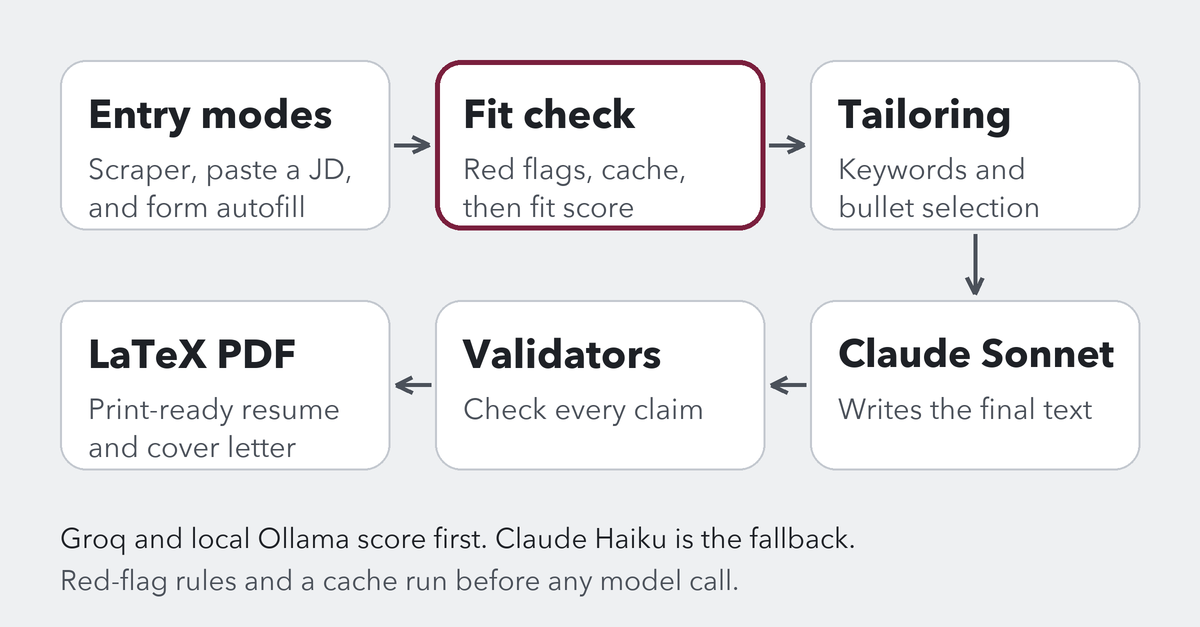
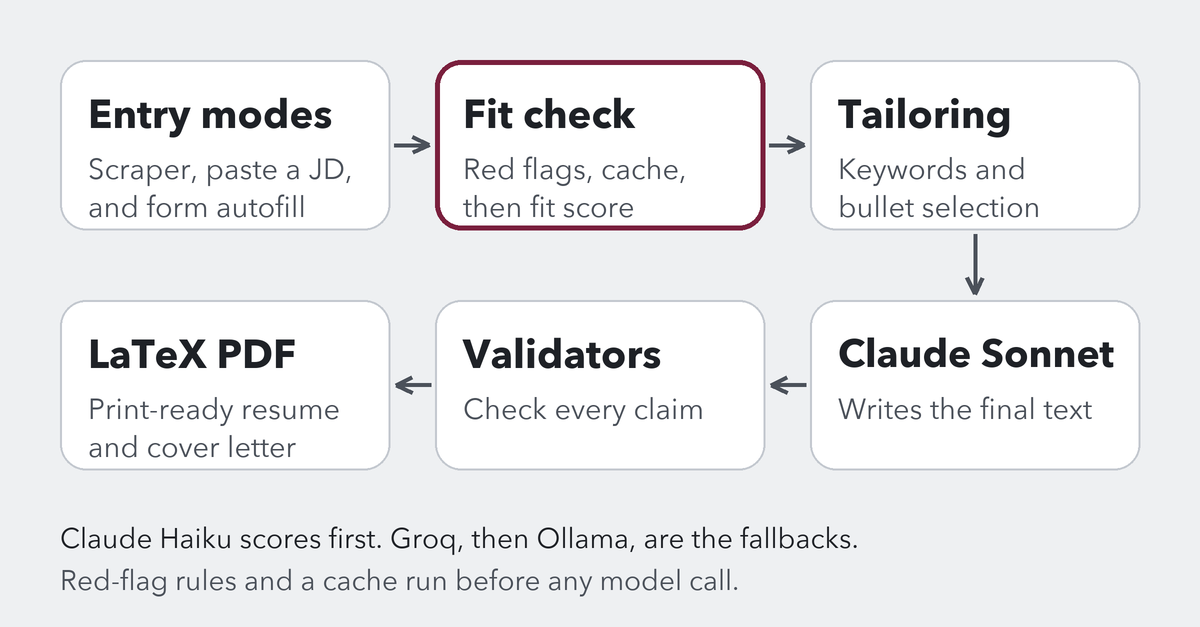
Match final resume: pipeline model wording, Task Vector results, awards, Graduate Grader entry, SEO title and description

Changed region(s): [[0.0617, 0.8182, 0.7092, 0.8788]]

diff --git a/src/data/projects.js b/src/data/projects.js
@@ -6,14 +6,14 @@ const allProjects = [
   {
     slug: 'job-search-resume-pipeline',
     title: 'Job Search & Resume Pipeline',
-    oneLiner: 'A LangGraph pipeline that scores job postings against my profile and writes a tailored resume and cover letter for the good fits. Groq and Ollama score first, Claude Haiku is the fallback, and Claude Sonnet writes the final text.',
+    oneLiner: 'A LangGraph pipeline that scores job postings against my profile and writes a tailored resume and cover letter for the good fits. Claude Haiku 4.5 handles keyword extraction, strategy, editing and fit scoring first. If it is unavailable or limited, the pipeline falls back to Groq, then local Ollama. Claude Sonnet 4.6 writes the final text.',
     role: 'Solo Project',
     period: 'Mar 2026 to ongoing',
-    description: 'An end-to-end job search system with three ways in: an automated scraper (LinkedIn, Indeed, Dice, Google Jobs and company career pages), a paste-a-job-description mode, and a Playwright form-filler that stops before submit. Every posting passes a "should-apply" check first: red-flag rules for visa and clearance wording, then a cache, then a fit score from an LLM. Groq and local Ollama handle scoring first. Claude Haiku is the fallback when their limits are reached. Claude Sonnet writes the final text. A Jinja2 and LaTeX pipeline turns it into a print-ready PDF.',
+    description: 'An end-to-end job search system with three ways in: an automated scraper (LinkedIn, Indeed, Dice, Google Jobs and company career pages), a paste-a-job-description mode, and a Playwright form-filler that stops before submit. Every posting passes a "should-apply" check first: red-flag rules for visa and clearance wording, then a cache, then a fit score from an LLM. Claude Haiku 4.5 handles keyword extraction, strategy, editing and fit scoring first. If it is unavailable or limited, the pipeline falls back to Groq, then local Ollama. Claude Sonnet 4.6 writes the final resume and cover letter text. A Jinja2 and LaTeX pipeline turns it into a print-ready PDF.',
     stack: ['Python', 'LangGraph', 'LangChain', 'Anthropic API', 'Groq', 'Ollama', 'Playwright', 'SerpApi', 'LaTeX', 'Pydantic'],
     outcomes: [
       'Red-flag rules, a cache and a fit score filter out bad matches before any writing starts, and a posting is never scored twice',
-      'Groq and local Ollama score first, Claude Haiku is the fallback when their limits are reached, and Claude Sonnet writes only the final text',
+      'Claude Haiku 4.5 handles scoring, keyword extraction, strategy and editing, with Groq and then local Ollama as fallbacks, and Claude Sonnet 4.6 writes only the final text',
       'Checks make sure every metric and technology claim in a generated bullet matches my own data'
     ],
     metrics: ['About 9 cents per tailored application', 'Under 1 cent to score a posting', '3 entry modes, 1 engine'],
@@ -24,7 +24,7 @@ const allProjects = [
     date: '2026-03-01',
     category: 'AI',
     problem: 'Tailoring a resume for each application takes hours, and simple LLM automation wastes money tailoring resumes for jobs not worth applying to: visa red flags, wrong seniority, wrong stack.',
-    approach: 'Built the pipeline around an early exit: red-flag rules (free), then a cache of past verdicts (free), then a fit score from Groq or local Ollama, with Claude Haiku as the fallback when those limits are reached. Postings that pass go through keyword extraction, bullet selection and a Claude Sonnet writer. Python checks compare every metric and technology claim with my own data before an editing pass that only runs when something is flagged. The autofill mode fills application forms and hands control back before submit, with no CAPTCHA bypass and no bot-detection evasion.',
+    approach: 'Built the pipeline around an early exit: red-flag rules (free), then a cache of past verdicts (free), then a fit score from Claude Haiku 4.5, with Groq and then local Ollama as fallbacks when it is unavailable or limited. Postings that pass go through keyword extraction, strategy and editing on Haiku, and a Claude Sonnet 4.6 writer for the final text. Python checks compare every metric and technology claim with my own data before an editing pass that only runs when something is flagged. The autofill mode fills application forms and hands control back before submit, with no CAPTCHA bypass and no bot-detection evasion.',
     results: 'A tailored application costs about 9 cents, and scoring a posting costs under 1 cent. Red-flag rules and a cache run before any model call. The same engine serves the scraper, manual and autofill modes, and no posting is processed twice.',
     improvements: ['FastAPI + web dashboard on Fly.io', 'Application outcome tracking to tune the scoring', 'Typst instead of LaTeX for lighter deploys']
   },
@@ -64,9 +64,12 @@ const allProjects = [
     outcomes: [
       'Fine-tuned BERT separately on SST-2 sentiment and CoNLL-2003 named entity recognition',
       'Extracted a task vector from each fine-tuned model and merged them into one model',
-      'Evaluated the merged model on both tasks in a notebook'
+      'Evaluated the merged model on both tasks and compared it with the single-task models'
     ],
-    metrics: [],
+    metrics: [
+      'SST-2: merged 87% accuracy, 88% F1 (single-task 92%, 93%)',
+      'CoNLL-2003 NER: merged 75% precision, 73% recall, 74% F1 (single-task 88%, 90%, 89%)'
+    ],
     repo: 'https://github.com/ankush1699/Efficient-Multi-Task-NLP-with-Task-Vector-Composition',
     demo: null,
     cover: 'covers/efficient-multitask-nlp-task-vector-composition.png',
@@ -75,7 +78,7 @@ const allProjects = [
     category: 'ML',
     problem: 'Training and running a separate model for each NLP task adds cost. The question was whether one model could carry both a sentiment task and a named entity task.',
     approach: 'Fine-tuned BERT on each task, took the difference between the fine-tuned and the original weights as a task vector, and merged the two vectors. Then applied the merged vector to the base model and evaluated it on both tasks.',
-    results: 'The repository holds the full pipeline as notebooks: fine-tuning for each task, extracting and merging the task vectors, applying the merged vector, and evaluating the result.',
+    results: 'On SST-2 the merged model reached 87% accuracy and 88% F1, against 92% and 93% for the single-task model. On CoNLL-2003 NER it reached 75% precision, 73% recall and 74% F1, against 88%, 90% and 89% for the single-task model. The merged model trades some accuracy for being one model instead of two. The repository holds the full pipeline as notebooks.',
     improvements: ['Add more tasks (for example question answering)', 'Better balance between the tasks', 'Quantization for a smaller model']
   },
   {

diff --git a/src/data/profile.js b/src/data/profile.js
@@ -11,7 +11,6 @@ export const personal = {
   email: 'ankushchaudhary.ac99@gmail.com',
   github: 'https://github.com/ankush1699/',
   linkedin: 'https://www.linkedin.com/in/ankushchaudhary01/',
-  availability: 'Open to full-time SWE / AI engineering roles · F-1 OPT, available now',
   // TODO(resume): PLACEHOLDER. No resume is linked until the final PDF is ready.
   // When it is: put the PDF in public/, then set this to its filename, for example
   //   resumePdf: 'Ankush_Chaudhary_SWE_Resume.pdf',
@@ -27,22 +26,32 @@ export const experience = [
     location: 'Remote',
     summary: 'Part-time fellowship red-teaming large language models.',
     bullets: [
-      'Wrote adversarial prompts aimed at the limits of the models’ reasoning, and got confidently wrong answers on hard data structure, algorithm and math problems.',
+      'Red-teamed large language models by writing prompts designed to make them fail on algorithm and math problems.',
     ],
-    tech: ['LLM red-teaming', 'Prompt writing', 'Adversarial testing'],
+    tech: ['Prompt engineering', 'Adversarial testing'],
+  },
+  {
+    title: 'Graduate Grader',
+    company: 'Virginia Tech',
+    period: 'Aug 2025 to Dec 2025',
+    location: 'Blacksburg, VA',
+    summary: 'Graded assignments and exams for an undergraduate course.',
+    bullets: [
+      'Graded assignments and exams for the undergraduate course Introduction to ECE Concepts.',
+    ],
+    tech: [],
   },
   {
     title: 'Lead Software Engineering Intern',
     company: 'Shifting Waters Leadership Institute',
     period: 'Jul 2025 to Sep 2025',
-    location: 'Richmond, VA · Remote',
-    summary: 'Sole technical owner of the organization’s website, working directly with the CEO.',
+    location: 'Richmond, VA',
+    summary: 'Only technical owner of the organization’s web platform.',
     bullets: [
-      'Was the only technical owner of the website. I gathered requirements with the CEO, designed it in Figma, and mentored one junior engineer.',
-      'Built the site in WordPress with custom HTML and CSS, and added Google Analytics. Lighthouse scored it 91 for accessibility and 92 for SEO.',
-      'Set up Make.com automation that sends form submissions to spreadsheets for executive reporting.',
+      'Built the organization’s web platform on WordPress with custom HTML and CSS, designed in Figma, as its only technical owner.',
+      'Reached Lighthouse scores of 91 for accessibility and 92 for SEO.',
     ],
-    tech: ['WordPress', 'HTML and CSS', 'Google Analytics', 'Make.com', 'Figma'],
+    tech: ['WordPress', 'Custom CSS/HTML', 'Google Analytics', 'Make.com', 'Figma'],
   },
   {
     title: 'System Engineer',
@@ -52,16 +61,16 @@ export const experience = [
     summary:
       'Core frontend developer on a UK life-insurance mobile app with 10K+ active users, working from India for a UK client.',
     bullets: [
-      'Worked as a core frontend developer on a UK life-insurance mobile app built with Angular, Ionic and TypeScript. It had 10K+ active users.',
-      'Took over release ownership when my tech lead was away for about a month, and kept that ownership afterward.',
-      'Led a frontend team of 4 in the final year, running code reviews and pair programming and writing onboarding notes for new teammates.',
-      'Designed a reusable full-stack framework (project structure, login setup and base UI components) that 2 more client teams adopted.',
-      'Wrote Spring Boot REST endpoints in Java for the app, including JWT login and token handling and MongoDB queries.',
-      'Integrated 30+ REST APIs into the Angular app, tested them in Postman, and handled login with route guards, HTTP interceptors and session management.',
-      'Moved releases from manual steps to GitLab CI and Jenkins pipelines.',
-      'Recognized with multiple Employee of the Month and Employee of the Quarter awards at TCS.',
+      'Shipped features for a UK client’s life-insurance mobile app, working from India as a core frontend developer (Angular, Ionic, TypeScript). The app has 10K+ active users in a regulated industry.',
+      'Took over releases for about a month when the tech lead was away, led the team through releases and security audits, and kept that responsibility after the lead returned.',
+      'Led a frontend team of 4 engineers through final-year delivery with code reviews, pair programming and onboarding docs.',
+      'Designed a reusable full-stack framework (project layout, login setup and shared UI components) that 2 more client teams adopted.',
+      'Wrote Java Spring Boot endpoints for the mobile app (JWT login tokens, MongoDB queries) and co-built the daily reporting endpoints behind an automated Excel report of 10 to 15 sheets for hundreds of users.',
+      'Integrated 30+ REST APIs into the Angular app and tested them in Postman, with JWT login, route guards and session handling.',
+      'Moved releases from manual steps to GitLab CI and Jenkins pipelines across development and staging.',
+      'Recognized with 8 TCS awards, including Star of the Month, Star of the Quarter, Star Team and 5 On the Spot.',
     ],
-    tech: ['Angular', 'Ionic', 'TypeScript', 'Java', 'Spring Boot', 'MongoDB', 'JWT', 'GitLab CI', 'Jenkins'],
+    tech: ['Angular', 'Ionic', 'TypeScript', 'Spring Boot', 'Java', 'MongoDB', 'JWT', 'GitLab CI', 'Jenkins', 'Postman'],
   },
 ]
 
@@ -83,11 +92,11 @@ export const education = [
 export const skills = {
   Languages: ['Python', 'Java', 'JavaScript', 'TypeScript', 'SQL'],
   'Frontend & Mobile': ['Angular', 'React', 'Ionic', 'HTML5', 'CSS3'],
-  Backend: ['Spring Boot', 'Node.js', 'Flask', 'REST APIs', 'JWT Auth'],
+  Backend: ['Spring Boot', 'Node.js', 'REST APIs', 'JWT Auth'],
   'AI / ML': ['LangGraph', 'LangChain', 'Anthropic API', 'Prompt Engineering', 'Hugging Face', 'PyTorch', 'BERT'],
   DevOps: ['Docker', 'GitLab CI', 'GitHub Actions', 'Jenkins'],
-  Databases: ['MySQL', 'MongoDB'],
-  'Testing & Tools': ['Pytest', 'JUnit', 'Jest', 'Jasmine', 'Karma', 'Git', 'Postman', 'Jira', 'Figma'],
+  Databases: ['MongoDB'],
+  'Testing & Tools': ['Pytest', 'JUnit', 'Jest', 'Jasmine', 'Karma', 'Git', 'Postman', 'Figma'],
 }
 
 // Headline numbers for the home page. Each one comes from the experience entries above
@@ -101,5 +110,5 @@ export const stats = [
 
 export const coreStack = [
   'Java', 'Python', 'TypeScript', 'Spring Boot', 'Angular', 'React',
-  'Node.js', 'LangGraph', 'PyTorch', 'Docker', 'MySQL', 'MongoDB',
+  'Node.js', 'LangGraph', 'PyTorch', 'Docker', 'Ionic', 'MongoDB',
 ]

diff --git a/index.html b/index.html
@@ -4,11 +4,11 @@
     <meta charset="UTF-8" />
     <link rel="icon" type="image/svg+xml" href="/favicon.svg" />
     <meta name="viewport" content="width=device-width, initial-scale=1.0" />
-    <title>Ankush Chaudhary | Full-Stack Software Engineer (AI)</title>
-    <meta name="description" content="Projects, experience and resume. Full-stack and AI work in Java, Python, Spring Boot, Angular and LangGraph." />
+    <title>Ankush Chaudhary | Full Stack Software Engineer (AI) | Chicago</title>
+    <meta name="description" content="Full stack software engineer with 4 years of experience building apps in Java, Spring Boot, Angular and Ionic, now building AI tools in Python and LangGraph. Based in Chicago." />
 
-    <meta property="og:title" content="Ankush Chaudhary | Full-Stack Software Engineer (AI)" />
-    <meta property="og:description" content="Projects, experience and resume. Full-stack and AI work in Java, Python, Spring Boot, Angular and LangGraph." />
+    <meta property="og:title" content="Ankush Chaudhary | Full Stack Software Engineer (AI) | Chicago" />
+    <meta property="og:description" content="Full stack software engineer with 4 years of experience building apps in Java, Spring Boot, Angular and Ionic, now building AI tools in Python and LangGraph. Based in Chicago." />
     <meta property="og:type" content="website" />
     <meta property="og:url" content="https://ankush1699.github.io/portfolio/" />
     <meta property="og:image" content="https://ankush1699.github.io/portfolio/og-image.png" />
@@ -17,8 +17,8 @@
     <meta property="og:image:alt" content="Ankush Chaudhary, Full-Stack Software Engineer (AI)" />
 
     <meta name="twitter:card" content="summary_large_image" />
-    <meta name="twitter:title" content="Ankush Chaudhary | Full-Stack Software Engineer (AI)" />
-    <meta name="twitter:description" content="Projects, experience and resume. Full-stack and AI work in Java, Python, Spring Boot, Angular and LangGraph." />
+    <meta name="twitter:title" content="Ankush Chaudhary | Full Stack Software Engineer (AI) | Chicago" />
+    <meta name="twitter:description" content="Full stack software engineer with 4 years of experience building apps in Java, Spring Boot, Angular and Ionic, now building AI tools in Python and LangGraph. Based in Chicago." />
     <meta name="twitter:image" content="https://ankush1699.github.io/portfolio/og-image.png" />
     <script>
       // Single Page Apps for GitHub Pages

diff --git a/src/pages/Home.jsx b/src/pages/Home.jsx
@@ -33,7 +33,7 @@ const Home = () => {
 
   return (
     <div className="home">
-      {/*--- Hero--- */}
+      {/* --- Hero --- */}
       <section className="hero">
         <div className="section-container hero-grid panel">
           <motion.div
@@ -100,7 +100,7 @@ const Home = () => {
         </div>
       </section>
 
-      {/*--- Numbers and core stack--- */}
+      {/* --- Numbers and core stack --- */}
       <section className="proof">
         <div className="section-container">
           <div className="stats-grid">
@@ -122,7 +122,7 @@ const Home = () => {
         </div>
       </section>
 
-      {/*--- 01 Selected work--- */}
+      {/* --- 01 Selected work --- */}
       <section className="work">
         <div className="section-container panel">
           <div className="section-head">
@@ -152,7 +152,7 @@ const Home = () => {
         </div>
       </section>
 
-      {/*--- 02 Experience ledger--- */}
+      {/* --- 02 Experience ledger --- */}
       <section className="ledger">
         <div className="section-container">
           <div className="section-head">
@@ -173,7 +173,7 @@ const Home = () => {
         </div>
       </section>
 
-      {/*--- 03 Research--- */}
+      {/* --- 03 Research --- */}
       <section className="research-strip">
         <div className="section-container panel">
           <div className="section-head">
@@ -199,7 +199,7 @@ const Home = () => {
         </div>
       </section>
 
-      {/*--- Closing CTA--- */}
+      {/* --- Closing CTA --- */}
       <section className="closing">
         <div className="section-container">
           <motion.div {...fadeUp}>

diff --git a/src/pages/Research.jsx b/src/pages/Research.jsx
@@ -24,13 +24,13 @@ const Research = () => {
     {
       title: 'Task-Vector Composition for Multitask BERT',
       summary:
-        'Fine-tuning BERT separately on sentiment (SST-2) and named entity recognition (CoNLL-2003), taking a task vector from each, and merging them into one 110M-parameter model. The notebooks cover fine-tuning, merging and evaluation.',
+        'Fine-tuning BERT separately on sentiment (SST-2) and named entity recognition (CoNLL-2003), taking a task vector from each, and merging them into one 110M-parameter model. The merged model trades some accuracy for being one model: 87% accuracy on SST-2 against 92% for the single-task model, and 74% F1 on CoNLL-2003 against 89%. The notebooks cover fine-tuning, merging and evaluation.',
       tags: ['NLP', 'BERT', 'PyTorch', 'Multitask Learning'],
     },
     {
       title: 'Cost-Gated LLM Agent Pipelines',
       summary:
-        'Design notes from the automated job search pipeline: early-exit scoring gates, content-addressed caching, and tiered model routing (Groq and local Ollama for scoring, Claude Haiku as the fallback, Claude Sonnet for the final text) to keep a tailored application near 9 cents.',
+        'Design notes from the automated job search pipeline: early-exit scoring gates, content-addressed caching, and tiered model routing (Claude Haiku 4.5 first, with Groq and then local Ollama as fallbacks, and Claude Sonnet 4.6 for the final text) to keep a tailored application near 9 cents.',
       tags: ['LLM Agents', 'LangGraph', 'Cost Optimization'],
     },
     {

diff --git a/src/pages/Experience.jsx b/src/pages/Experience.jsx
@@ -32,11 +32,13 @@ const Experience = () => {
               <div className="exp-detail">
                 <h3 className="exp-title">{e.title}</h3>
                 <p className="exp-company">{e.company}</p>
-                <div className="exp-tech">
-                  {e.tech.map((t) => (
-                    <span key={t} className="work-metric">{t}</span>
-                  ))}
-                </div>
+                {e.tech.length > 0 && (
+                  <div className="exp-tech">
+                    {e.tech.map((t) => (
+                      <span key={t} className="work-metric">{t}</span>
+                    ))}
+                  </div>
+                )}
                 <ul className="exp-bullets">
                   {e.bullets.map((b, i) => (
                     <li key={i}>{b}</li>

diff --git a/src/components/RouteTitle.jsx b/src/components/RouteTitle.jsx
@@ -3,7 +3,7 @@ import { useLocation } from 'react-router-dom'
 import { getProjectBySlug } from '../data/projects'
 
 const SITE = 'Ankush Chaudhary'
-const HOME_TITLE = `${SITE} | Full-Stack Software Engineer (AI)`
+const HOME_TITLE = `${SITE} | Full Stack Software Engineer (AI) | Chicago`
 
 const TITLES = {
   '/projects': 'Projects',

diff --git a/design-assets/make-covers.py b/design-assets/make-covers.py
@@ -76,7 +76,7 @@ c.arrow(xs[1] + bw + 4, y1 + bh / 2, xs[2] - 6, y1 + bh / 2)
 c.arrow(xs[2] + bw / 2, y1 + bh + 4, xs[2] + bw / 2, y2 - 6)
 c.arrow(xs[2] - 4, y2 + bh / 2, xs[1] + bw + 6, y2 + bh / 2)
 c.arrow(xs[1] - 4, y2 + bh / 2, xs[0] + bw + 6, y2 + bh / 2)
-c.text(60, 520, 'Groq and local Ollama score first. Claude Haiku is the fallback.', NOTE, INK)
+c.text(60, 520, 'Claude Haiku scores first. Groq, then Ollama, are the fallbacks.', NOTE, INK)
 c.text(60, 562, 'Red-flag rules and a cache run before any model call.', NOTE, MUTED)
 c.save('public/covers/job-search-resume-pipeline.png')
 
